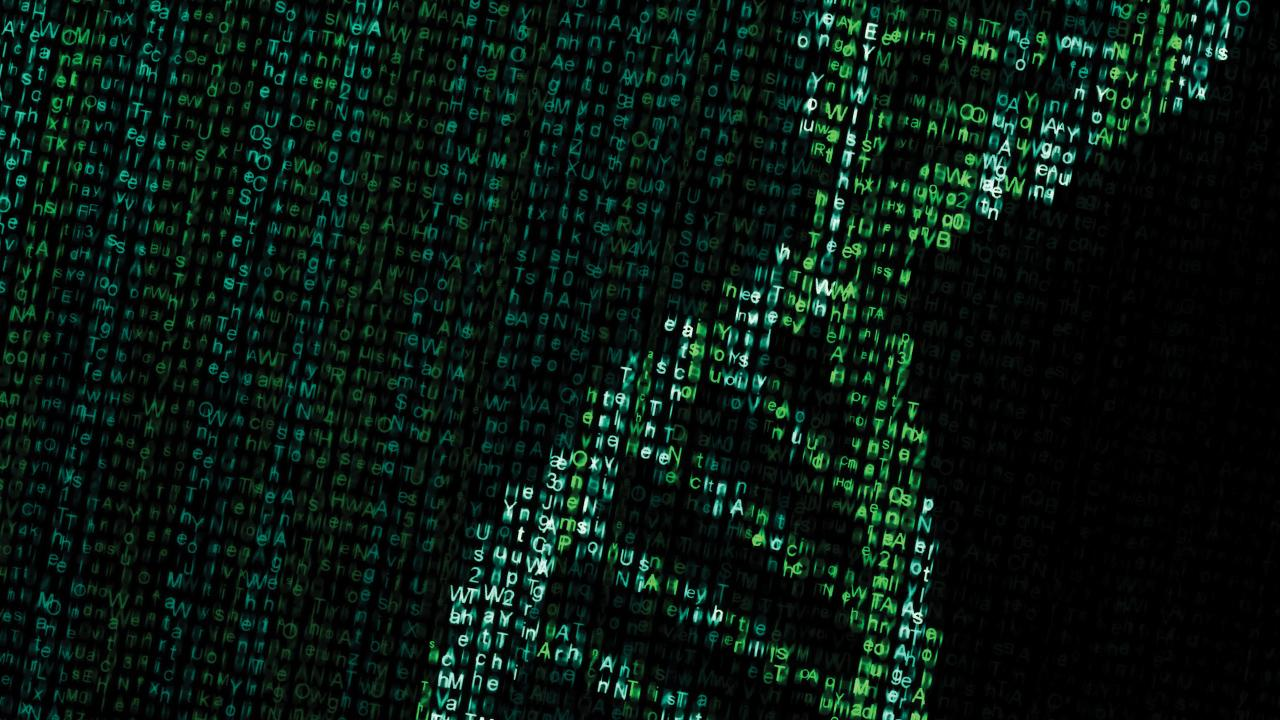
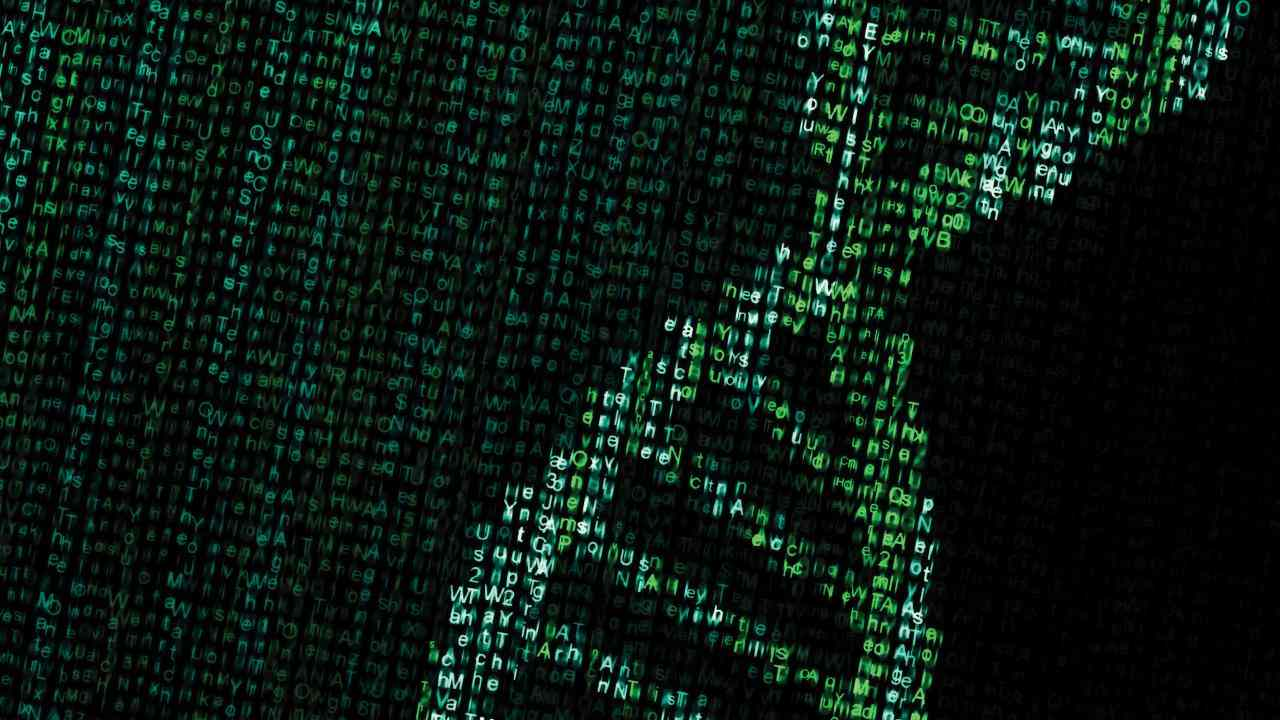
Loading size is now 2.2 Mb, down from 5.6 Mb

diff --git a/src/scss/_old-rules.scss b/src/scss/_old-rules.scss
@@ -287,7 +287,7 @@ body .page {
   background-image: url("/biocore-images/biochain.jpg");
 }
 .image-bg-11 {
-  background-image: url("/biocore-images/cloud-v5.png");
+  background-image: url("/biocore-images/cloud-v5.jpg");
 }
 .image-bg-12 {
   background-image: url("/images/2250x1500.png");
